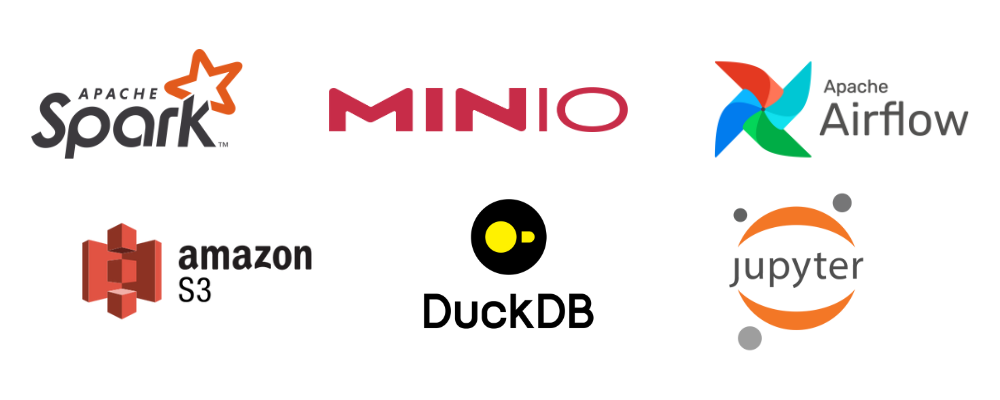
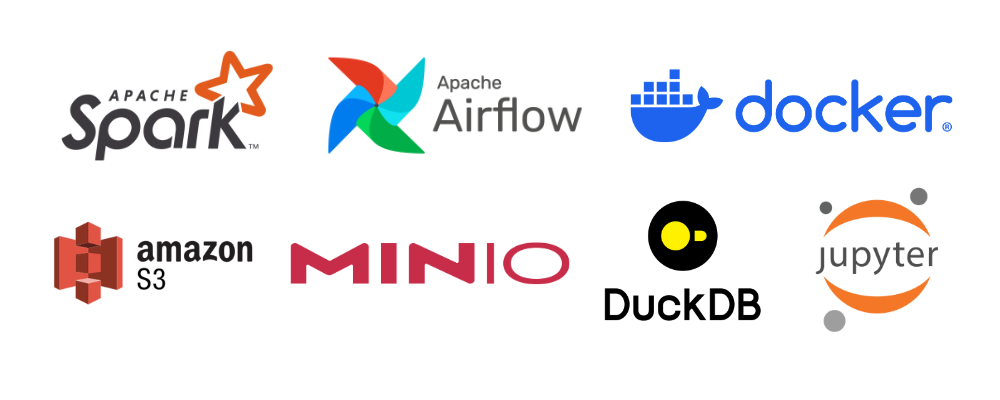
Update README & Github Page

Changed region(s): [[0.031, 0.45, 0.93, 0.87], [0.31, 0.12, 0.992, 0.39], [0.031, 0.12, 0.279, 0.42]]

diff --git a/index.md b/index.md
@@ -1,6 +1,6 @@
 # Data Engineering
 
-This project implements a fully containerized data engineering workflow for ingesting, processing, validating, and preparing NYC Yellow Taxi trip data. It uses Apache Spark for computation, Apache Airflow for orchestration, MinIO as S3-compatible object storage, DuckDB for analytics. The environment is fully reproducible through Docker Compose.
+This project implements a fully containerized data engineering workflow for ingesting, processing, validating, and preparing NYC Yellow Taxi Trip Data. It uses Apache Spark for computation, Apache Airflow for orchestration, MinIO as S3-compatible object storage and DuckDB as database for analytics. The environment is fully reproducible through Docker Compose.
 
 ---
 
@@ -30,21 +30,21 @@ The pipeline is orchestrated by Airflow and executed using Spark via containeriz
 │   └── storage_config.yaml
 ├── data
 │   └── yellow_tripdata_2024-01.parquet
-├── docker-compose.yml
 ├── infra
 │   └── docker
 │       ├── notebook.Dockerfile
 │       └── spark.Dockerfile
-├── LICENSE
 ├── notebooks
 │   └── 01_taxi_trips_exploration.ipynb
-├── README.md
-├── requirements.txt
 ├── spark_jobs
 │   ├── ingest_landing.py
 │   └── transform_prepared.py
-└── warehouse
+├── warehouse
     └── taxi.duckdb
+├── README.md
+├── docker-compose.yml
+├── LICENSE
+└── requirements.txt
 ```
 
 ---
@@ -61,17 +61,39 @@ curl -L "https://d37ci6vzurychx.cloudfront.net/trip-data/yellow_tripdata_2024-01
   -o data/yellow_tripdata_2024-01.parquet
 ```
 
+The following table describes the key fields in the dataset:
+
+| Field Name              | Description |
+|-------------------------|-------------|
+| **VendorID** | A code indicating the TPEP provider that provided the record. Possible values: Creative Mobile Technologies; VeriFone Inc. |
+| **tpep_pickup_datetime** | The date and time when the meter was engaged. |
+| **tpep_dropoff_datetime** | The date and time when the meter was disengaged. |
+| **Passenger_count** | The number of passengers in the vehicle. This is a driver-entered value. |
+| **Trip_distance** | The elapsed trip distance in miles reported by the taximeter. |
+| **Pickup_longitude** | Longitude where the meter was engaged. |
+| **Pickup_latitude** | Latitude where the meter was engaged. |
+| **RateCodeID** | The final rate code in effect at the end of the trip. Possible values: Standard rate; JFK; Newark; Nassau or Westchester; Negotiated fare; Group ride. |
+| **Store_and_fwd_flag** | Indicates whether the trip record was held in vehicle memory before sending to the vendor (“store and forward”). Values: Y = store and forward trip; N = not a store and forward trip. |
+| **Dropoff_longitude** | Longitude where the meter was disengaged. |
+| **Dropoff_latitude** | Latitude where the meter was disengaged. |
+| **Payment_type** | A numeric code signifying how the passenger paid for the trip. Possible values: Credit card; Cash; No charge; Dispute; Unknown; Voided trip. |
+| **Fare_amount** | The time-and-distance fare calculated by the meter. |
+| **Extra** | Miscellaneous extras and surcharges, including the $0.50 and $1 rush hour and overnight charges. |
+| **MTA_tax** | $0.50 MTA tax automatically triggered based on the metered rate in use. |
+| **Improvement_surcharge** | $0.30 improvement surcharge assessed at the flag drop; introduced in 2015. |
+| **Tip_amount** | Tip amount. Automatically populated for credit card tips; cash tips are not included. |
+| **Tolls_amount** | Total amount of all tolls paid in the trip. |
+| **Total_amount** | The total amount charged to passengers. Does not include cash tips. |
+
+More data can be found in [TLC Trip Record Data](https://www.nyc.gov/site/tlc/about/tlc-trip-record-data.page).
+
 ---
 
 ## 4. System Architecture
 
-### High-Level Flow
-
-```
-Local → Spark (Ingest) → MinIO Landing → Spark (Transform) → MinIO Prepared → DuckDB → Jupyter
-```
-
 ### Component Overview
+
+![Technologies](assets/stack.png)
 
 | Component | Role |
 |----------|------|
@@ -81,6 +103,14 @@ Local → Spark (Ingest) → MinIO Landing → Spark (Transform) → MinIO Prepa
 | DuckDB | Analytical storage for queries and notebook exploration. |
 | JupyterLab | Notebook environment for analytics. |
 | Docker Compose | Provides full reproducible environment. |
+
+### High-Level Flow
+
+```
+Local → Spark (Ingest) → MinIO "Landing" → Spark (Transform) → MinIO "Prepared" → DuckDB → Jupyter
+```
+
+The data flows from local raw files into MinIO S3 storage (Landing), then transformed by Spark into a cleaned format (Prepared), and finally loaded into DuckDB for exploration and analysis using JupyterLab notebooks.
 
 ---
 
@@ -248,10 +278,15 @@ Ensure Airflow home has correct ownership.
 ## 13. Future Enhancements
 - Add more data quality checks
 - Add incremental ingestion using Airflow Variables
-- Add partitioning strategies
 - Add CI/CD workflows
+- Add dataset updates and versioning
 
 ---
 
 ## 14. License
 This project is distributed under the terms defined in the `LICENSE` file.
+
+---
+## 15. Acknowledgements
+- NYC Taxi & Limousine Commission for the dataset
+- Apache Spark, Airflow, MinIO, DuckDB communities for their open-source tools

diff --git a/README.md b/README.md
@@ -91,15 +91,9 @@ More data can be found in [TLC Trip Record Data](https://www.nyc.gov/site/tlc/ab
 
 ## 4. System Architecture
 
-### High-Level Flow
+### Component Overview
 
 ![Technologies](assets/stack.png)
-
-```
-Local → Spark (Ingest) → MinIO Landing → Spark (Transform) → MinIO Prepared → DuckDB → Jupyter
-```
-
-### Component Overview
 
 | Component | Role |
 |----------|------|
@@ -109,6 +103,14 @@ Local → Spark (Ingest) → MinIO Landing → Spark (Transform) → MinIO Prepa
 | DuckDB | Analytical storage for queries and notebook exploration. |
 | JupyterLab | Notebook environment for analytics. |
 | Docker Compose | Provides full reproducible environment. |
+
+### High-Level Flow
+
+```
+Local → Spark (Ingest) → MinIO "Landing" → Spark (Transform) → MinIO "Prepared" → DuckDB → Jupyter
+```
+
+The data flows from local raw files into MinIO S3 storage (Landing), then transformed by Spark into a cleaned format (Prepared), and finally loaded into DuckDB for exploration and analysis using JupyterLab notebooks.
 
 ---
 
@@ -276,10 +278,15 @@ Ensure Airflow home has correct ownership.
 ## 13. Future Enhancements
 - Add more data quality checks
 - Add incremental ingestion using Airflow Variables
-- Add partitioning strategies
 - Add CI/CD workflows
+- Add dataset updates and versioning
 
 ---
 
 ## 14. License
 This project is distributed under the terms defined in the `LICENSE` file.
+
+---
+## 15. Acknowledgements
+- NYC Taxi & Limousine Commission for the dataset
+- Apache Spark, Airflow, MinIO, DuckDB communities for their open-source tools
